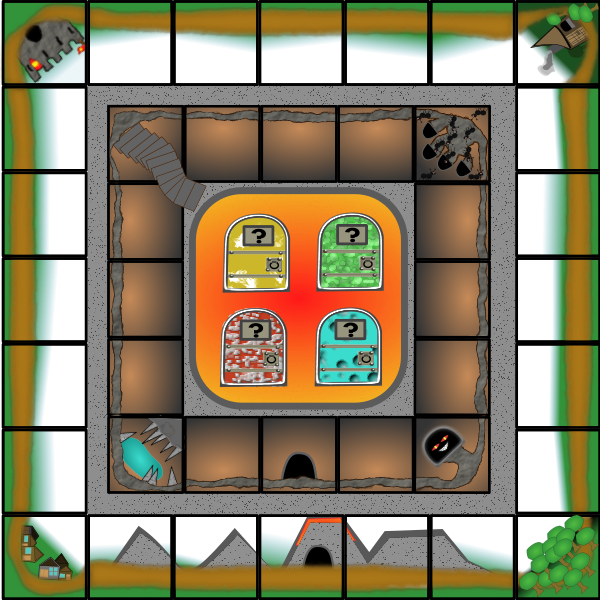
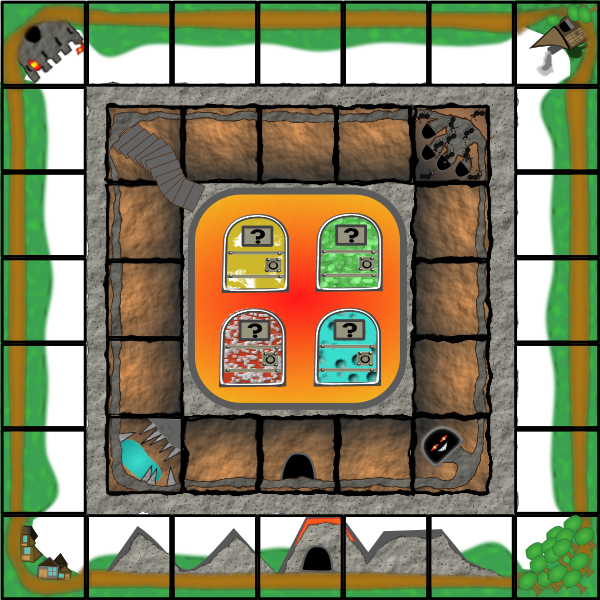
update board and sideboard

Changed region(s): [[0.0, 0.0, 1.0, 1.0], [0.24, 0.54, 0.27, 0.57], [0.21, 0.99, 0.24, 1.0]]

diff --git a/js/play.js b/js/play.js
@@ -166,15 +166,20 @@ var stars;
 var moon;
 var cloudsBack;
 
+
 var playState = {
  
 create: function () {
     
     this.game.stage.backgroundColor = "#4488AA";
+    
     sun = this.game.add.sprite(5,5, "sun");
     //Create Game Board
     board = this.game.add.sprite(300,0, 'board');
-    
+    var leftBorder = this.game.add.sprite(board.x - 50, board.y - 64, 'leftBorder');
+    var rightBorder = this.game.add.sprite(board.x + board.width - 10, board.y - 64, 'rightBorder');
+    this.game.world.sendToBack(leftBorder);
+    this.game.world.sendToBack(rightBorder);
     tokenList = this.game.add.group();
     tokenList = [token1, token2, token3, token4, token5, token6];
     
@@ -243,7 +248,11 @@ create: function () {
         var backCloud = cloudsBack.create(xRandom, yRandom, "cloud");   
         backCloud.alpha = .60;
         backCloud.scale.setTo(randomScale,randomScale);
-        
+        if ((xRandom > 300 && xRandom < 379) || (xRandom < 900 && xRandom > 821)) {
+            
+            backCloud.angle += 90;
+            
+        }
         
     }
     
@@ -2347,7 +2356,7 @@ function CloudGenerator() {
         if (clouds.length < 5) {
             
             var yRandom = Math.floor(Math.random() * (this.game.height - 100) + 50);
-            var xRandom = getRandomInt(20, 500);
+            var xRandom = getRandomInt(20, 1000);
             
             var randomScale = getRandomInt(.75,3);
             var cloud = clouds.create(this.game.width + xRandom, yRandom , 'cloud');
@@ -2356,6 +2365,7 @@ function CloudGenerator() {
             cloud.body.gravity.setTo(0, 0);
             cloud.body.velocity.setTo( -10, 0);
             cloud.scale.setTo(randomScale,randomScale);
+            
             cloud.inputEnabled = true;
             cloud.events.onInputDown.add(DestroyThis, this);
         }     
@@ -2439,6 +2449,11 @@ function DayNight() {
          
             backCloud.scale.setTo(randomScale,randomScale);
             
+             if ((xRandom > 300 && xRandom < 379) || (xRandom < 900 && xRandom > 821)) {
+            
+                backCloud.angle += 90;
+            
+            }
             
         }
         

diff --git a/js/load.js b/js/load.js
@@ -18,6 +18,8 @@ var loadState = {
         this.game.load.image('cloud', 'assets/cloud.png');
         this.game.load.image('moon', 'assets/moon.png');
         this.game.load.image('star', 'assets/star.png');
+        this.game.load.image('rightBorder', 'assets/sideBoardRight.png');
+        this.game.load.image('leftBorder', 'assets/sideBoardLeft.png');
         
         this.game.load.spritesheet('die', 'assets/dice.png', 79, 75);
         this.game.load.image('sheet', 'assets/characterFrame.png');
